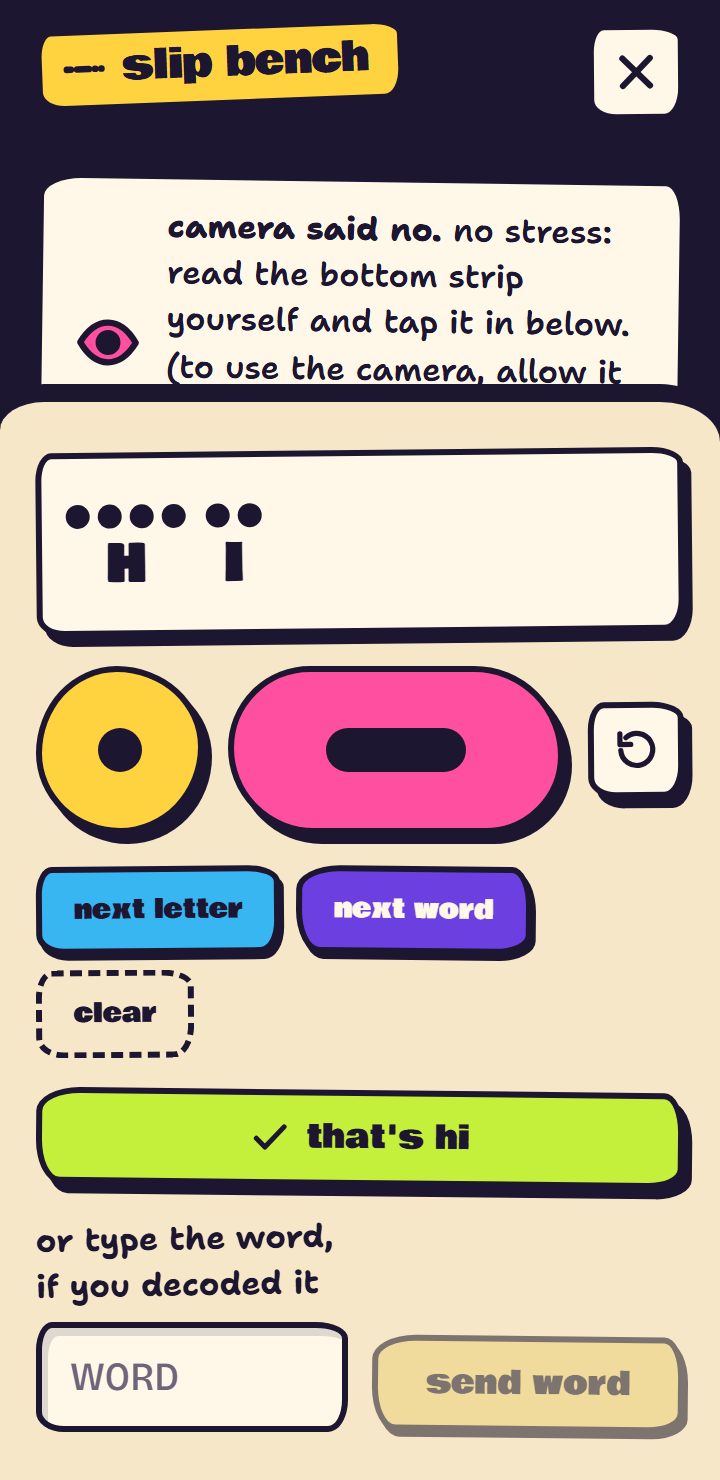
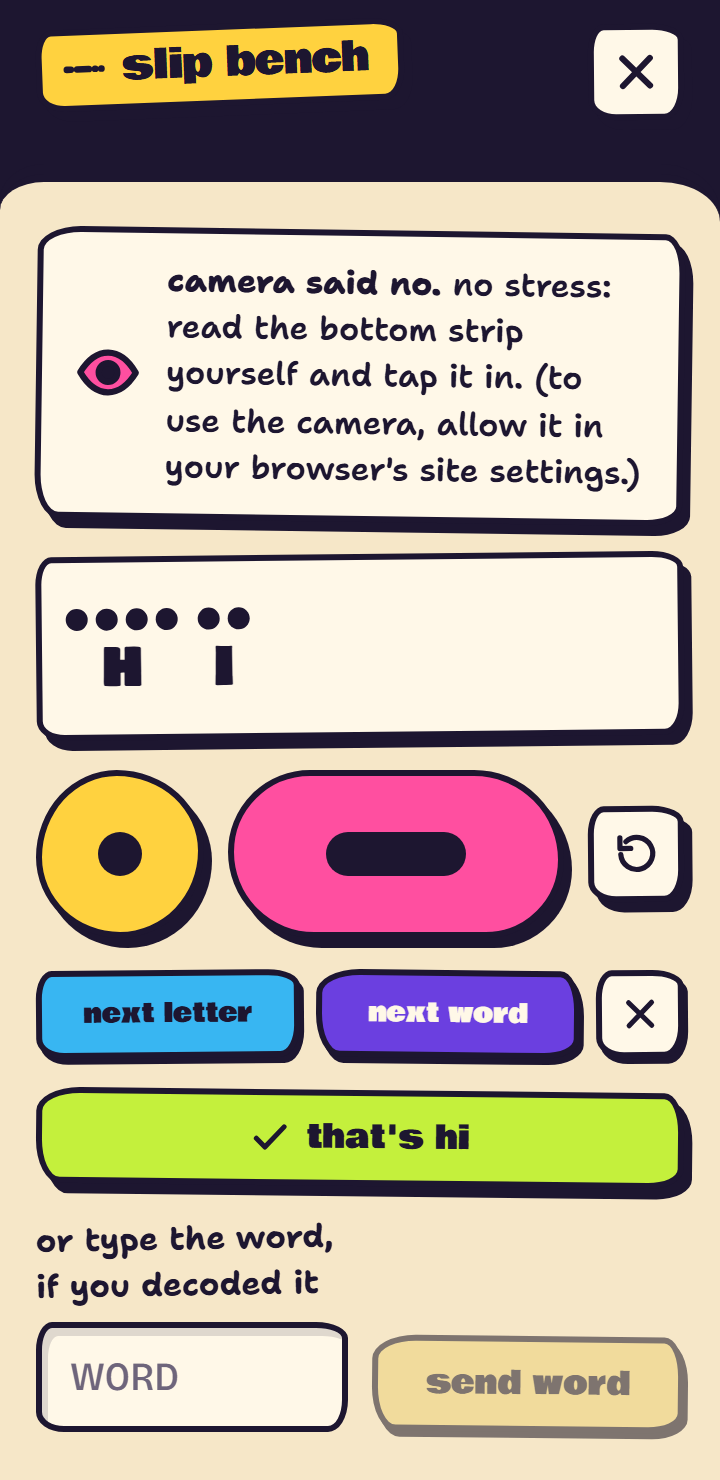
fix(slips): no-camera note sits inside the keypad panel, keypad row fits 360 px, result Morse wraps; refreshed screenshots

diff --git a/web/src/lib/slips/slips.module.css b/web/src/lib/slips/slips.module.css
@@ -144,12 +144,8 @@
 }
 
 .noCam {
-  position: absolute;
-  top: 88px;
-  left: var(--gutter);
-  right: var(--gutter);
   max-width: var(--page-max);
-  margin: 0 auto;
+  margin: 0 auto var(--s-4);
   display: grid;
   grid-template-columns: auto minmax(0, 1fr);
   gap: var(--s-3);
@@ -210,13 +206,13 @@
 .resultMeta { font-family: var(--font-hand); font-weight: 700; color: var(--ink-soft); font-size: var(--step--1); }
 
 /* morse in ink: dots and capsules */
-.ink { display: inline-flex; flex-wrap: wrap; justify-content: center; gap: 8px 18px; }
-.inkWord { display: inline-flex; gap: 12px; }
+.ink { display: inline-flex; flex-wrap: wrap; justify-content: center; gap: 8px 18px; max-width: 100%; }
+.inkWord { display: inline-flex; flex-wrap: wrap; justify-content: center; gap: 6px 11px; max-width: 100%; }
 .inkLetter { display: inline-flex; align-items: center; gap: 4px; }
 .inkSm .symDot { width: 8px; height: 8px; }
 .inkSm .symDash { width: 22px; height: 8px; }
-.symDot { display: inline-block; width: 12px; height: 12px; border-radius: 50%; background: var(--ink); }
-.symDash { display: inline-block; width: 34px; height: 12px; border-radius: 6px; background: var(--ink); }
+.symDot { display: inline-block; width: 11px; height: 11px; border-radius: 50%; background: var(--ink); }
+.symDash { display: inline-block; width: 28px; height: 11px; border-radius: 6px; background: var(--ink); }
 
 /* ---- keypad -------------------------------------------------------------- */
 .keypad { display: grid; gap: var(--s-4); max-width: var(--page-max); margin: 0 auto; }
@@ -255,7 +251,8 @@
 .keyDash { border-radius: 42px 46px 40px 44px; background: var(--pink); }
 .keyDot .symDot { width: 22px; height: 22px; }
 .keyDash .symDash { width: 70px; height: 22px; border-radius: 11px; }
-.keysRow { display: flex; flex-wrap: wrap; gap: var(--s-2); }
+.keysRow { display: grid; grid-template-columns: 1fr 1fr auto; gap: var(--s-2); align-items: center; }
+.keysRow > button { justify-content: center; }
 .wordRow { display: grid; grid-template-columns: minmax(0, 1fr) auto; gap: var(--s-3); align-items: end; }
 
 /* ---- inline launcher ------------------------------------------------------ */

diff --git a/web/src/lib/slips/SlipScanner.tsx b/web/src/lib/slips/SlipScanner.tsx
@@ -246,15 +246,14 @@ export function SlipScanner({ onScan, onClose, after = 'result', title = 'scan a
         </div>
       )}
 
-      {(phase === 'denied' || phase === 'unsupported') && !result && (
-        <div className={s.noCam}>
-          <Doodle name="eye" size={34} fill="var(--pink)" />
-          <p>{phase === 'denied' ? <><b>camera said no.</b> no stress: read the bottom strip yourself and tap it in below. (to use the camera, allow it in your browser's site settings.)</> : <><b>no camera here.</b> tap the bottom strip's dots and dashes in, or type the word.</>}</p>
-        </div>
-      )}
-
       {typing && !result && (
         <div className={s.typingPanel}>
+          {(phase === 'denied' || phase === 'unsupported') && (
+            <div className={s.noCam}>
+              <Doodle name="eye" size={34} fill="var(--pink)" />
+              <p>{phase === 'denied' ? <><b>camera said no.</b> no stress: read the bottom strip yourself and tap it in. (to use the camera, allow it in your browser's site settings.)</> : <><b>no camera here.</b> tap the bottom strip's dots and dashes in, or type the word.</>}</p>
+            </div>
+          )}
           <MorseKeypad onSubmit={typed} onCancel={camLive ? () => setTyping(false) : undefined} />
         </div>
       )}

diff --git a/web/src/lib/slips/MorseKeypad.tsx b/web/src/lib/slips/MorseKeypad.tsx
@@ -89,9 +89,7 @@ export function MorseKeypad({ onSubmit, onCancel }: { onSubmit: (r: StripReading
         <Button tone="grape" size="sm" onClick={() => push(' / ')} disabled={!seq}>
           next word
         </Button>
-        <Button tone="paper" size="sm" ghost onClick={() => setSeq('')} disabled={!seq}>
-          clear
-        </Button>
+        <IconButton icon="close" label="clear" size="sm" onClick={() => setSeq('')} disabled={!seq} />
       </div>
       <Button tone="lime" block icon="check" disabled={!fromKeys} onClick={() => fromKeys && onSubmit(fromKeys)} data-testid="keypad-submit">
         {fromKeys?.text ? `that's ${fromKeys.text.toLowerCase()}` : fromKeys ? 'send these dots' : 'send it'}
